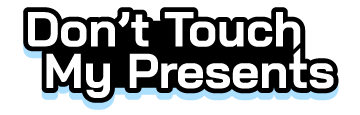
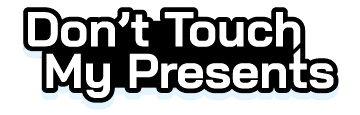
Title change

Changed region(s): [[0.0917, 0.7304, 0.9472, 0.9652], [0.0611, 0.3913, 0.1222, 0.5217]]

diff --git a/DontTouchMyPresents/main.py b/DontTouchMyPresents/main.py
@@ -7,7 +7,7 @@ pygame.init()
 screen_width, screen_height = 960, 720
 white = (255, 255, 255)
 black = (0, 0, 0)
-lightblue = (113, 207, 247)
+lightblue = (123, 194, 212)
 
 class ScoreBoard:
     def __init__ (self, x, y):
@@ -96,7 +96,7 @@ def background(screen, flakes):
         flake.draw(screen)
 
 def load_title_image():
-    title_image = pygame.image.load("DontTouchMyPresents/Assets/title.png")
+    title_image = pygame.image.load("DontTouchMyPresents/Assets/title4.png")
     title_image = pygame.transform.scale(title_image, (int(screen_width * 0.6), int(screen_height * 0.3)))
     return title_image
 
@@ -176,8 +176,8 @@ def main():
             screen.blit(title_image, (title_x, title_y))
             screen.blit(button_surface, (button_x, button_y))
 
-            screen.blit(hand_left, (hand_left_x, hand_left_y))
-            screen.blit(hand_right, (hand_right_x, hand_right_y))
+            #screen.blit(hand_left, (hand_left_x, hand_left_y))
+            #screen.blit(hand_right, (hand_right_x, hand_right_y))
 
             title.update()
             title.draw(screen)
